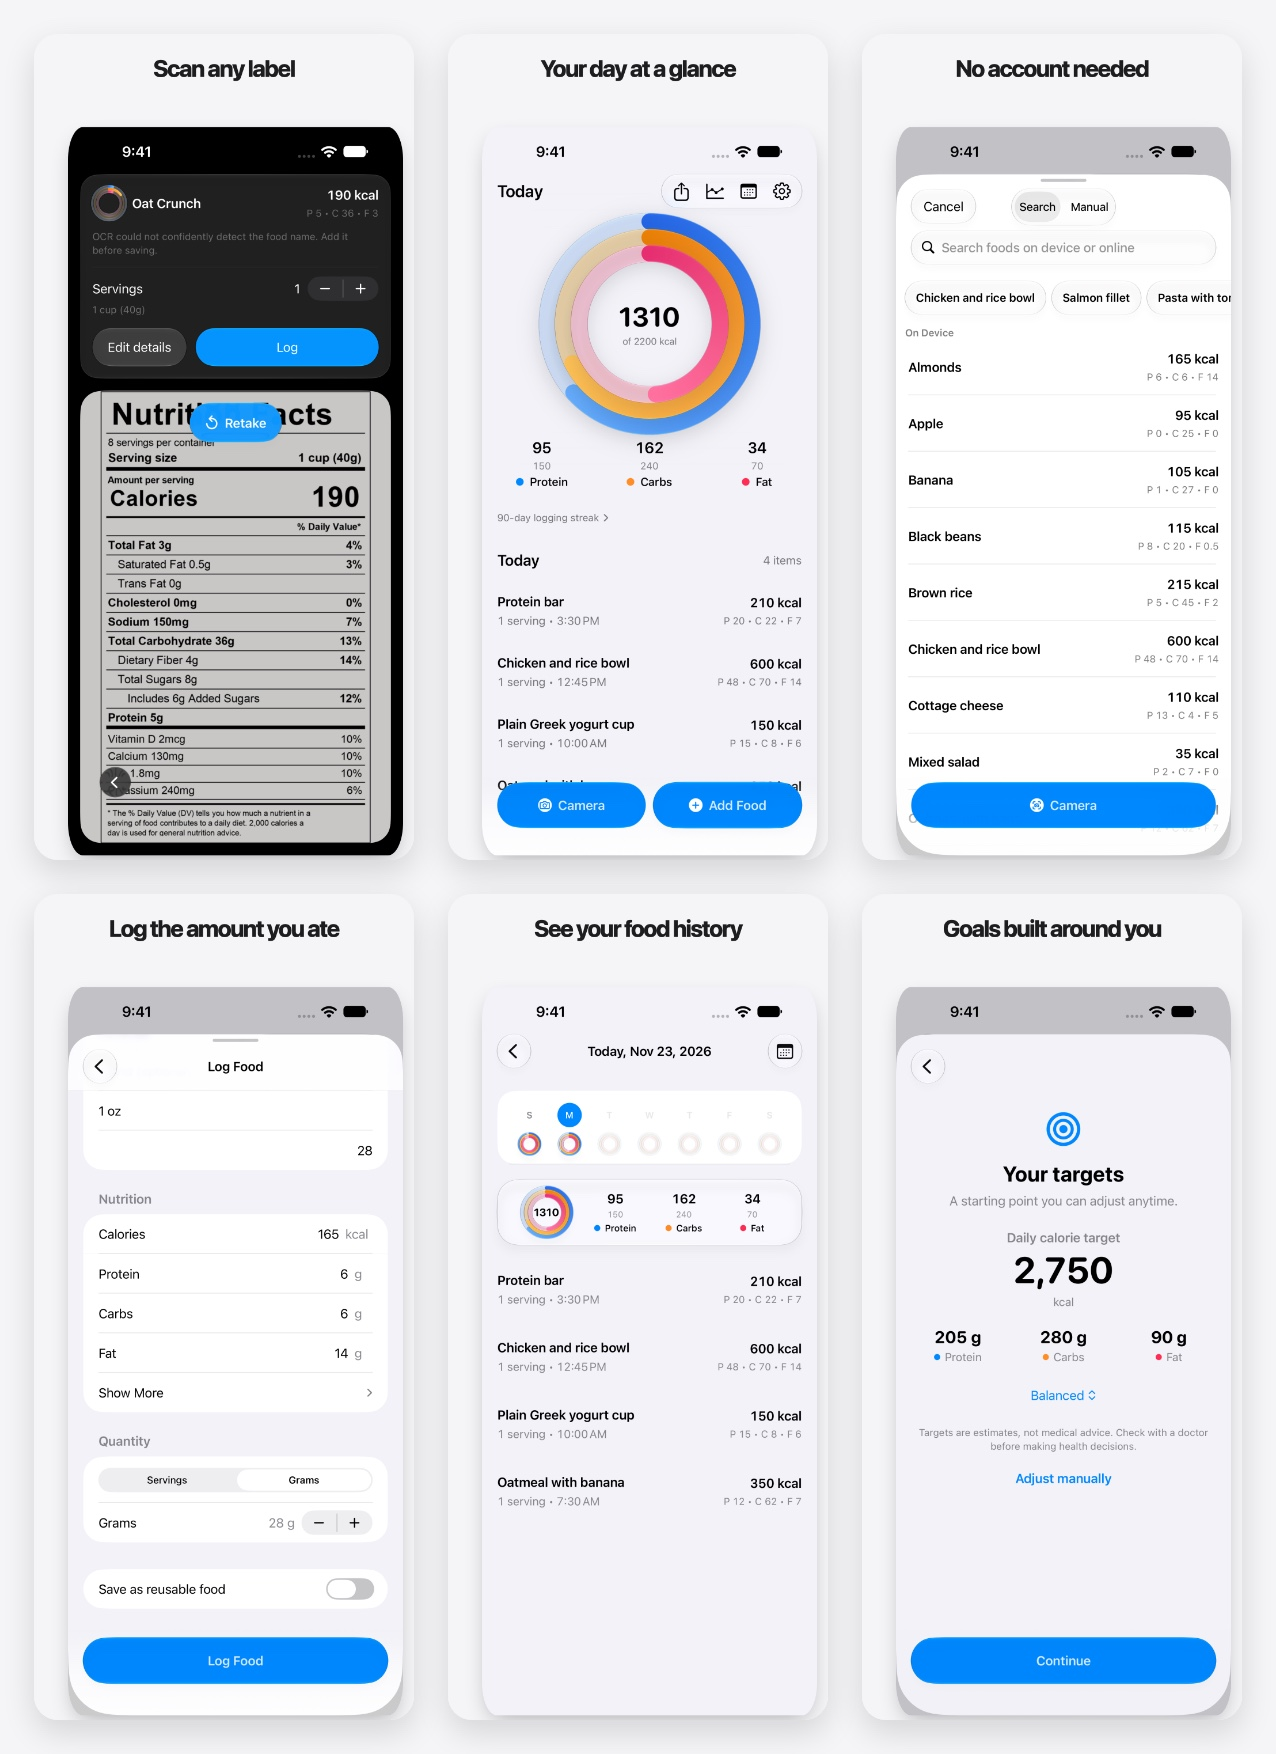
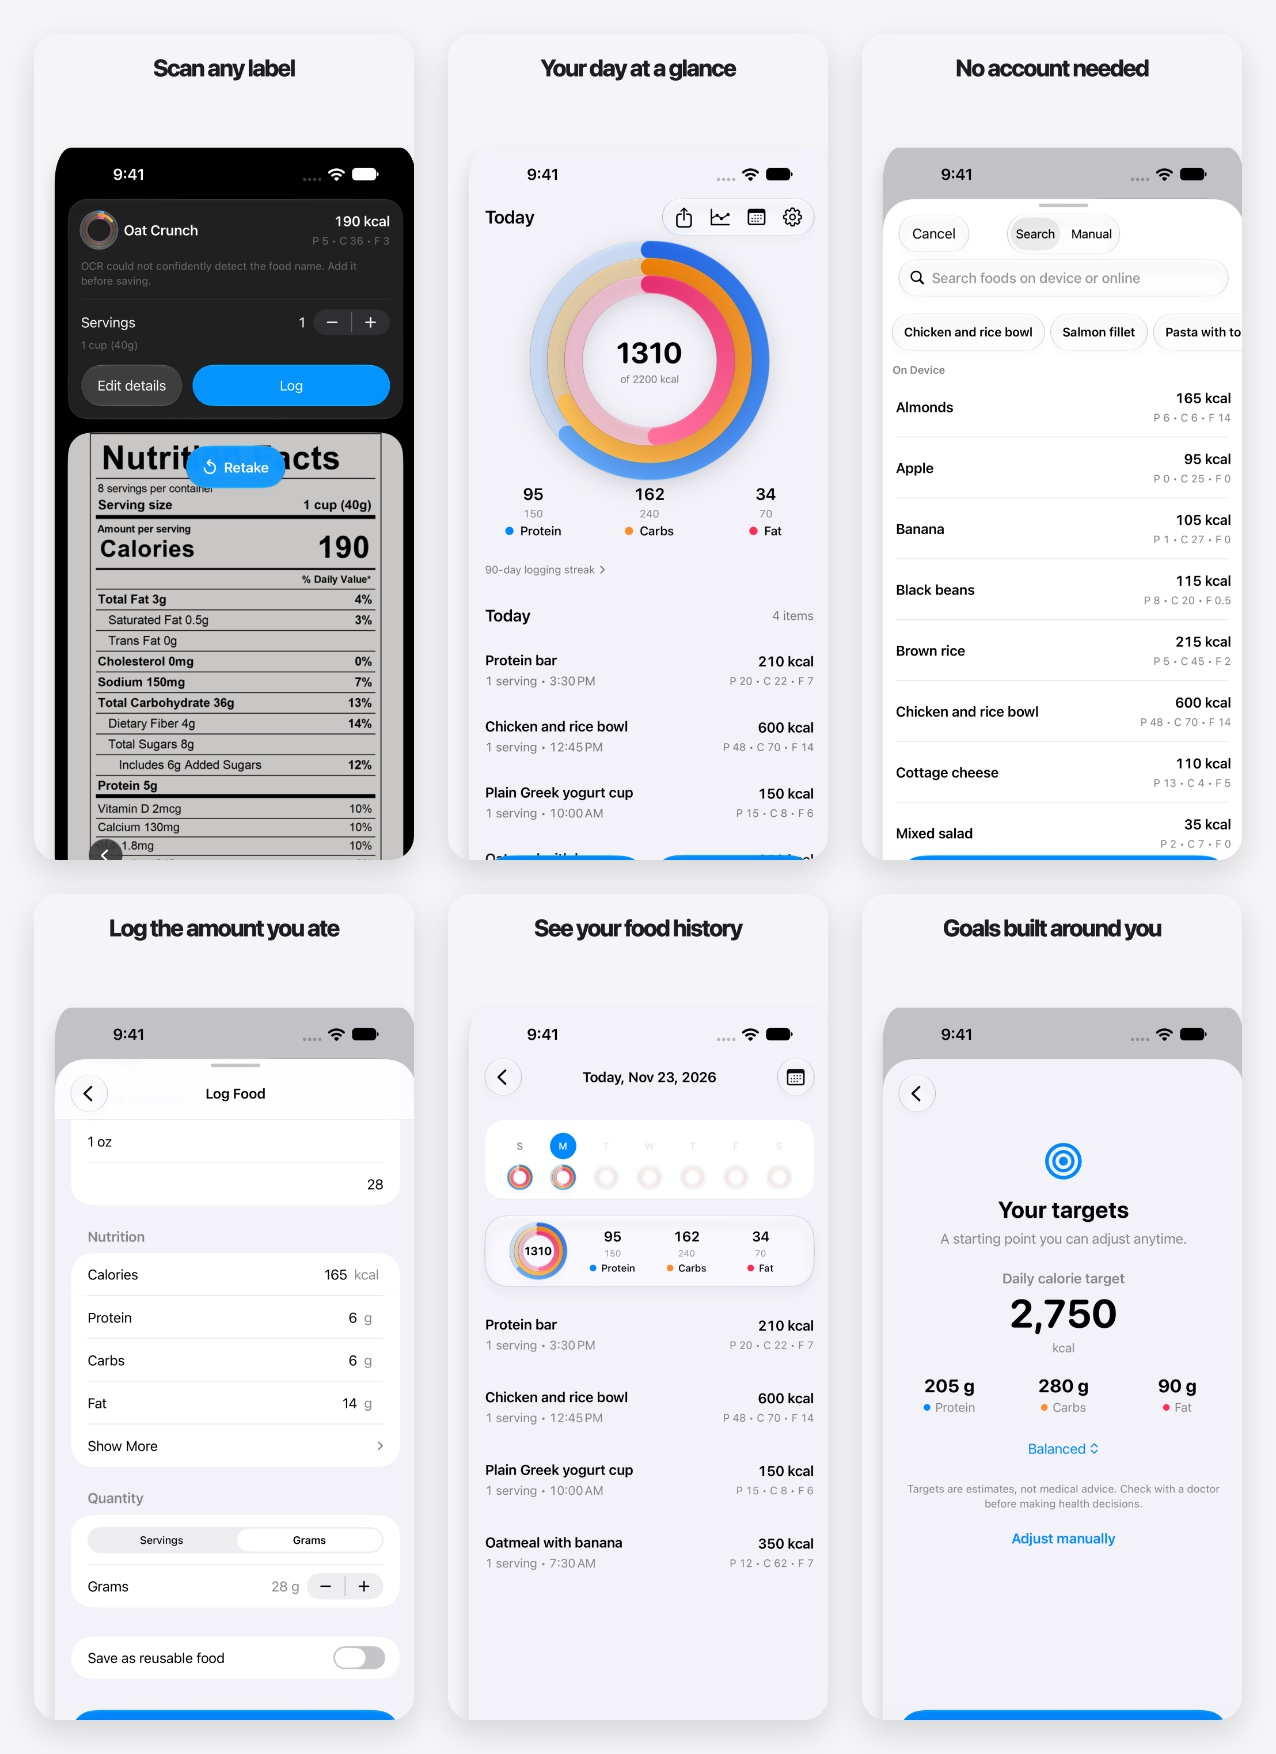
docs: enlarge App Store screenshot screens

diff --git a/docs/app-store/screenshots-v2/README.md b/docs/app-store/screenshots-v2/README.md
@@ -1,6 +1,8 @@
 # Screenshot set v2
 
-This renderer creates six later-use App Store screenshots from fresh build-39 captures. It writes opaque, embedded-sRGB PNGs at 1320 × 2868 (6.9-inch) and 1179 × 2556 (Dynamic Island medium) to the ignored `build/evidence/2026-11-23-appstore-creative/screenshots-v2/` directory. It also writes `contact-sheet.png` and `search-result-preview.png`; the latter places the first three captioned screenshots side by side at phone width for legibility review.
+This renderer creates six later-use App Store screenshots from fresh build-39 captures. All six share the same layout: a pale solid background, a large bold dark benefit caption at the top, and one nearly full-width app screen below it. The screen bleeds past the bottom edge to keep the UI large and legible. The renderer checks that captions do not clip or overlap the screen and that each screen extends below the canvas.
+
+It writes opaque, embedded-sRGB PNGs at 1320 × 2868 (6.9-inch) and 1179 × 2556 (Dynamic Island medium) to the ignored `build/evidence/2026-11-23-appstore-creative/screenshots-v2/` directory. It also writes `contact-sheet.png` and `search-result-preview.png`; the latter places the first three screenshots side by side for legibility review.
 
 ## Captions and source screens
 

diff --git a/changes-log.md b/changes-log.md
@@ -6,7 +6,7 @@ See the [app archive index](docs/history/app/README.md) for every archived headi
 
 ## 2026-11-23 App Store creative assets
 
-Prepared fresh build-39 creative assets and a six-image screenshot set for later App Store use. Apple-safe header/search formats and screenshot sizes were checked with sips; full-size exports and captures are in ignored `build/evidence/2026-11-23-appstore-creative/`. Captures use synthetic data. The 1.0 listing was not changed or uploaded; the share-choice screen was omitted because no synthetic connected participant was available without remote writes.
+Prepared fresh build-39 creative assets and a six-image screenshot set for later App Store use. The screenshot set uses a consistent pale background, large benefit caption, and enlarged phone screen bleeding off the bottom. Apple-safe header/search formats and screenshot sizes were checked with sips; full-size exports and captures are in ignored `build/evidence/2026-11-23-appstore-creative/`. Captures use synthetic data. The 1.0 listing was not changed or uploaded; the share-choice screen was omitted because no synthetic connected participant was available without remote writes.
 
 ## 2026-11-11 App Review IAP product loading
 

diff --git a/docs/app-store/screenshots.md b/docs/app-store/screenshots.md
@@ -7,7 +7,7 @@ Apple's current [screenshot specifications](https://developer.apple.com/help/app
 - iPhone with Dynamic Island, medium display: **1179 × 2556** or **1206 × 2622**
 - iPhone with Dynamic Island, large display: **1320 × 2868** (also 1260 × 2736 or 1290 × 2796)
 
-The generated set uses 1179 × 2556 for medium and 1320 × 2868 for large. Each image has a short benefit-led caption and a real app screen, scaled inside the canvas with rounded screen corners. No device bezel artwork is used. Both sizes come from real 9:41 captures of Debug build 1.0 (39), commit `dc6b2bf0b374b0e273ba18acf3675fb2026ce104`; small-device outputs are scaled from the same native media-simulator captures.
+The generated set uses 1179 × 2556 for medium and 1320 × 2868 for large. All six share a pale background, large bold dark benefit caption, and one real app screen scaled nearly to the full canvas width. The screen bleeds off the bottom edge so its UI stays large and readable. No device bezel artwork is used. Both sizes come from real 9:41 captures of Debug build 1.0 (39), commit `dc6b2bf0b374b0e273ba18acf3675fb2026ce104`; medium outputs are scaled from the same native media-simulator captures.
 
 ## Screenshot order
 
